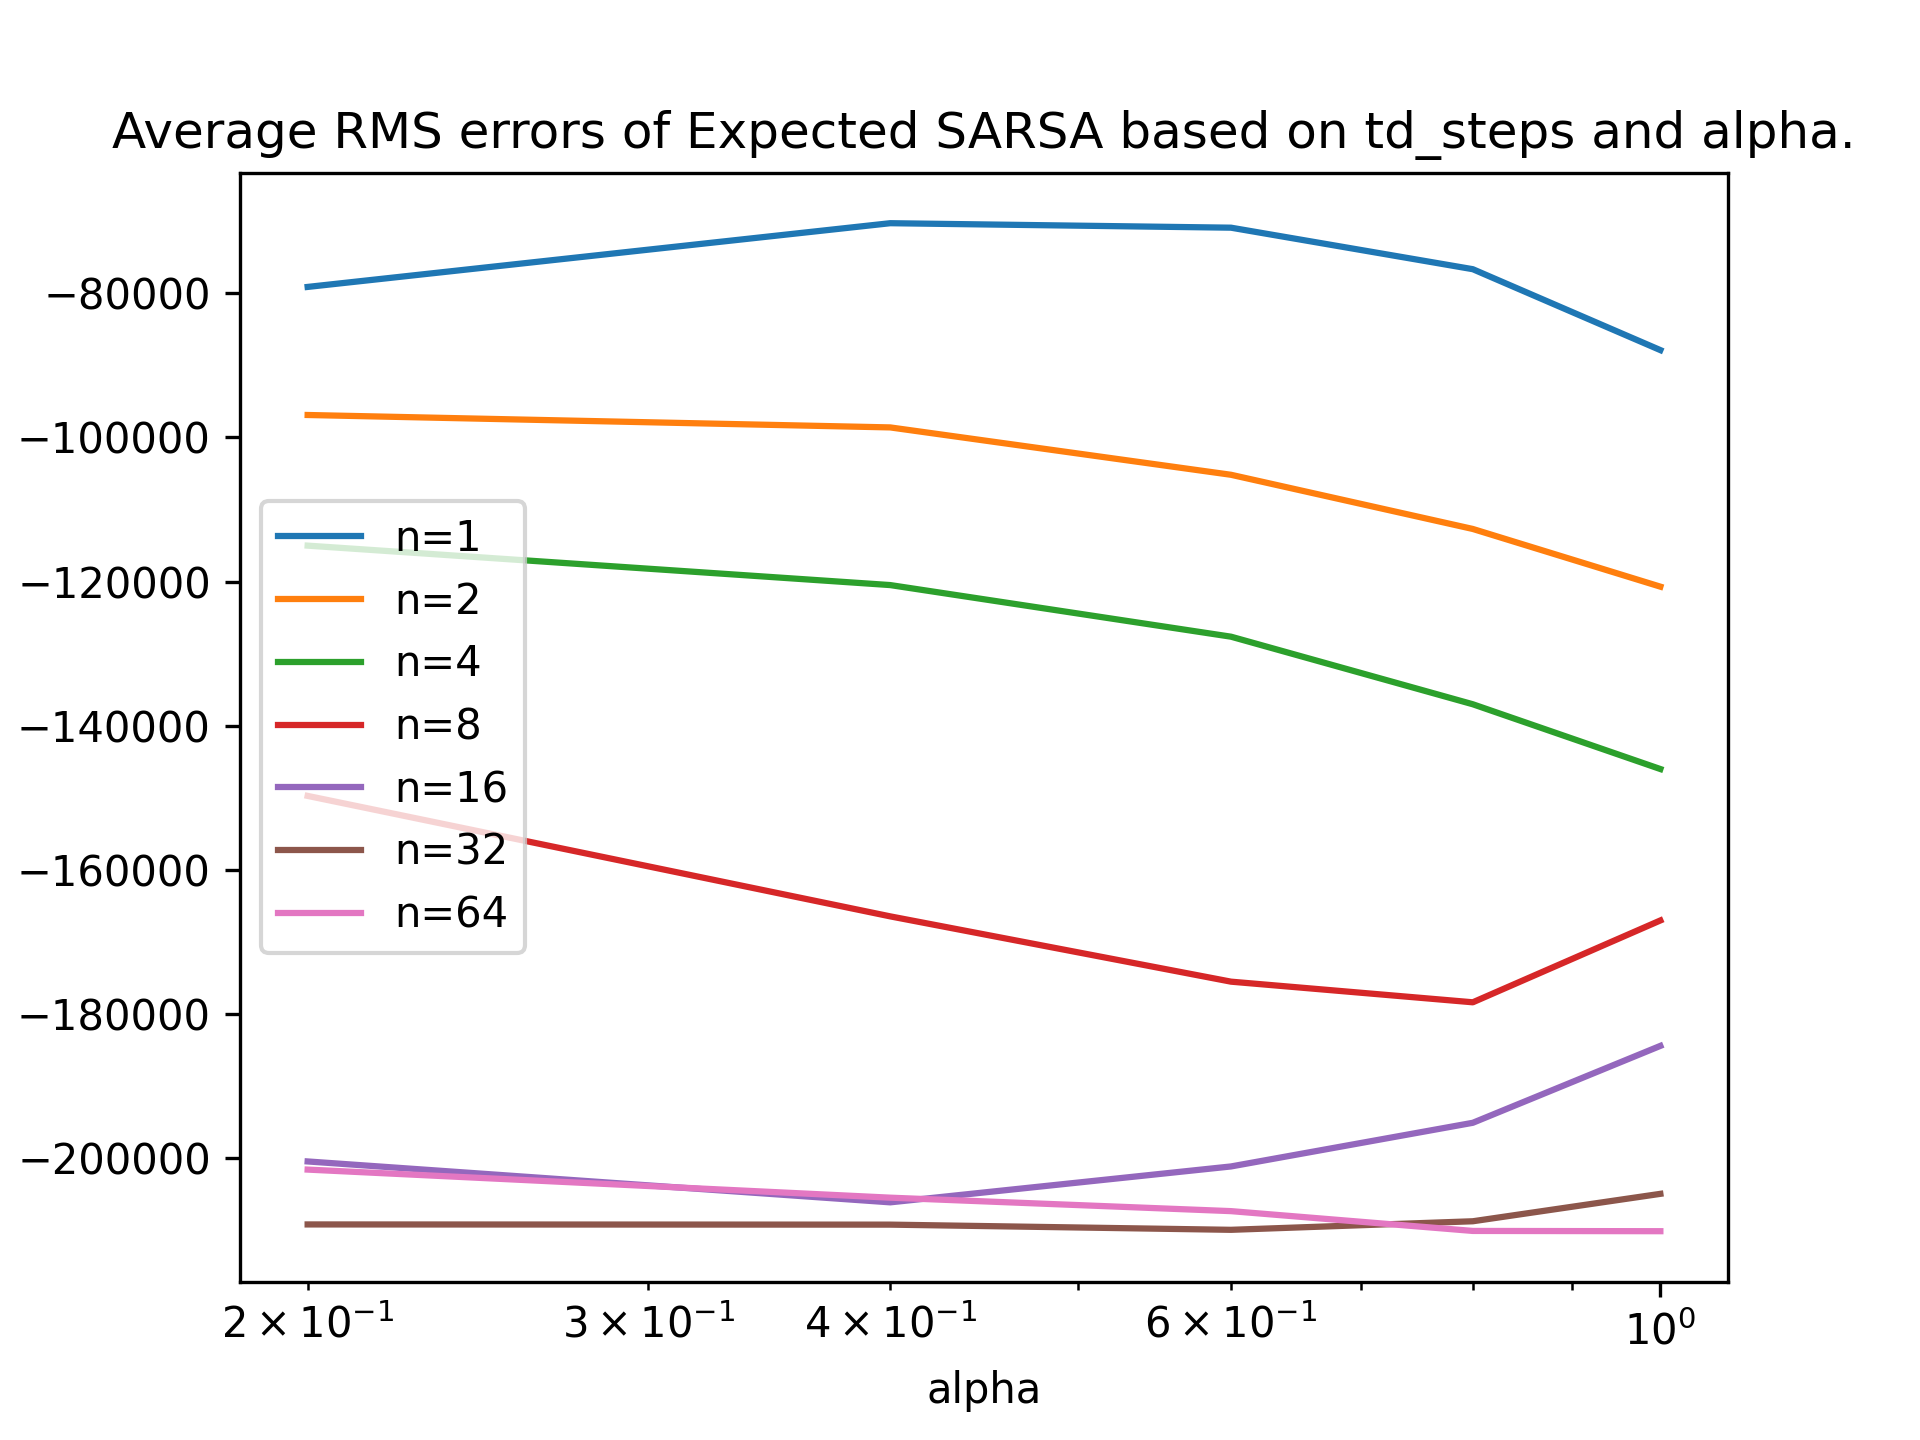
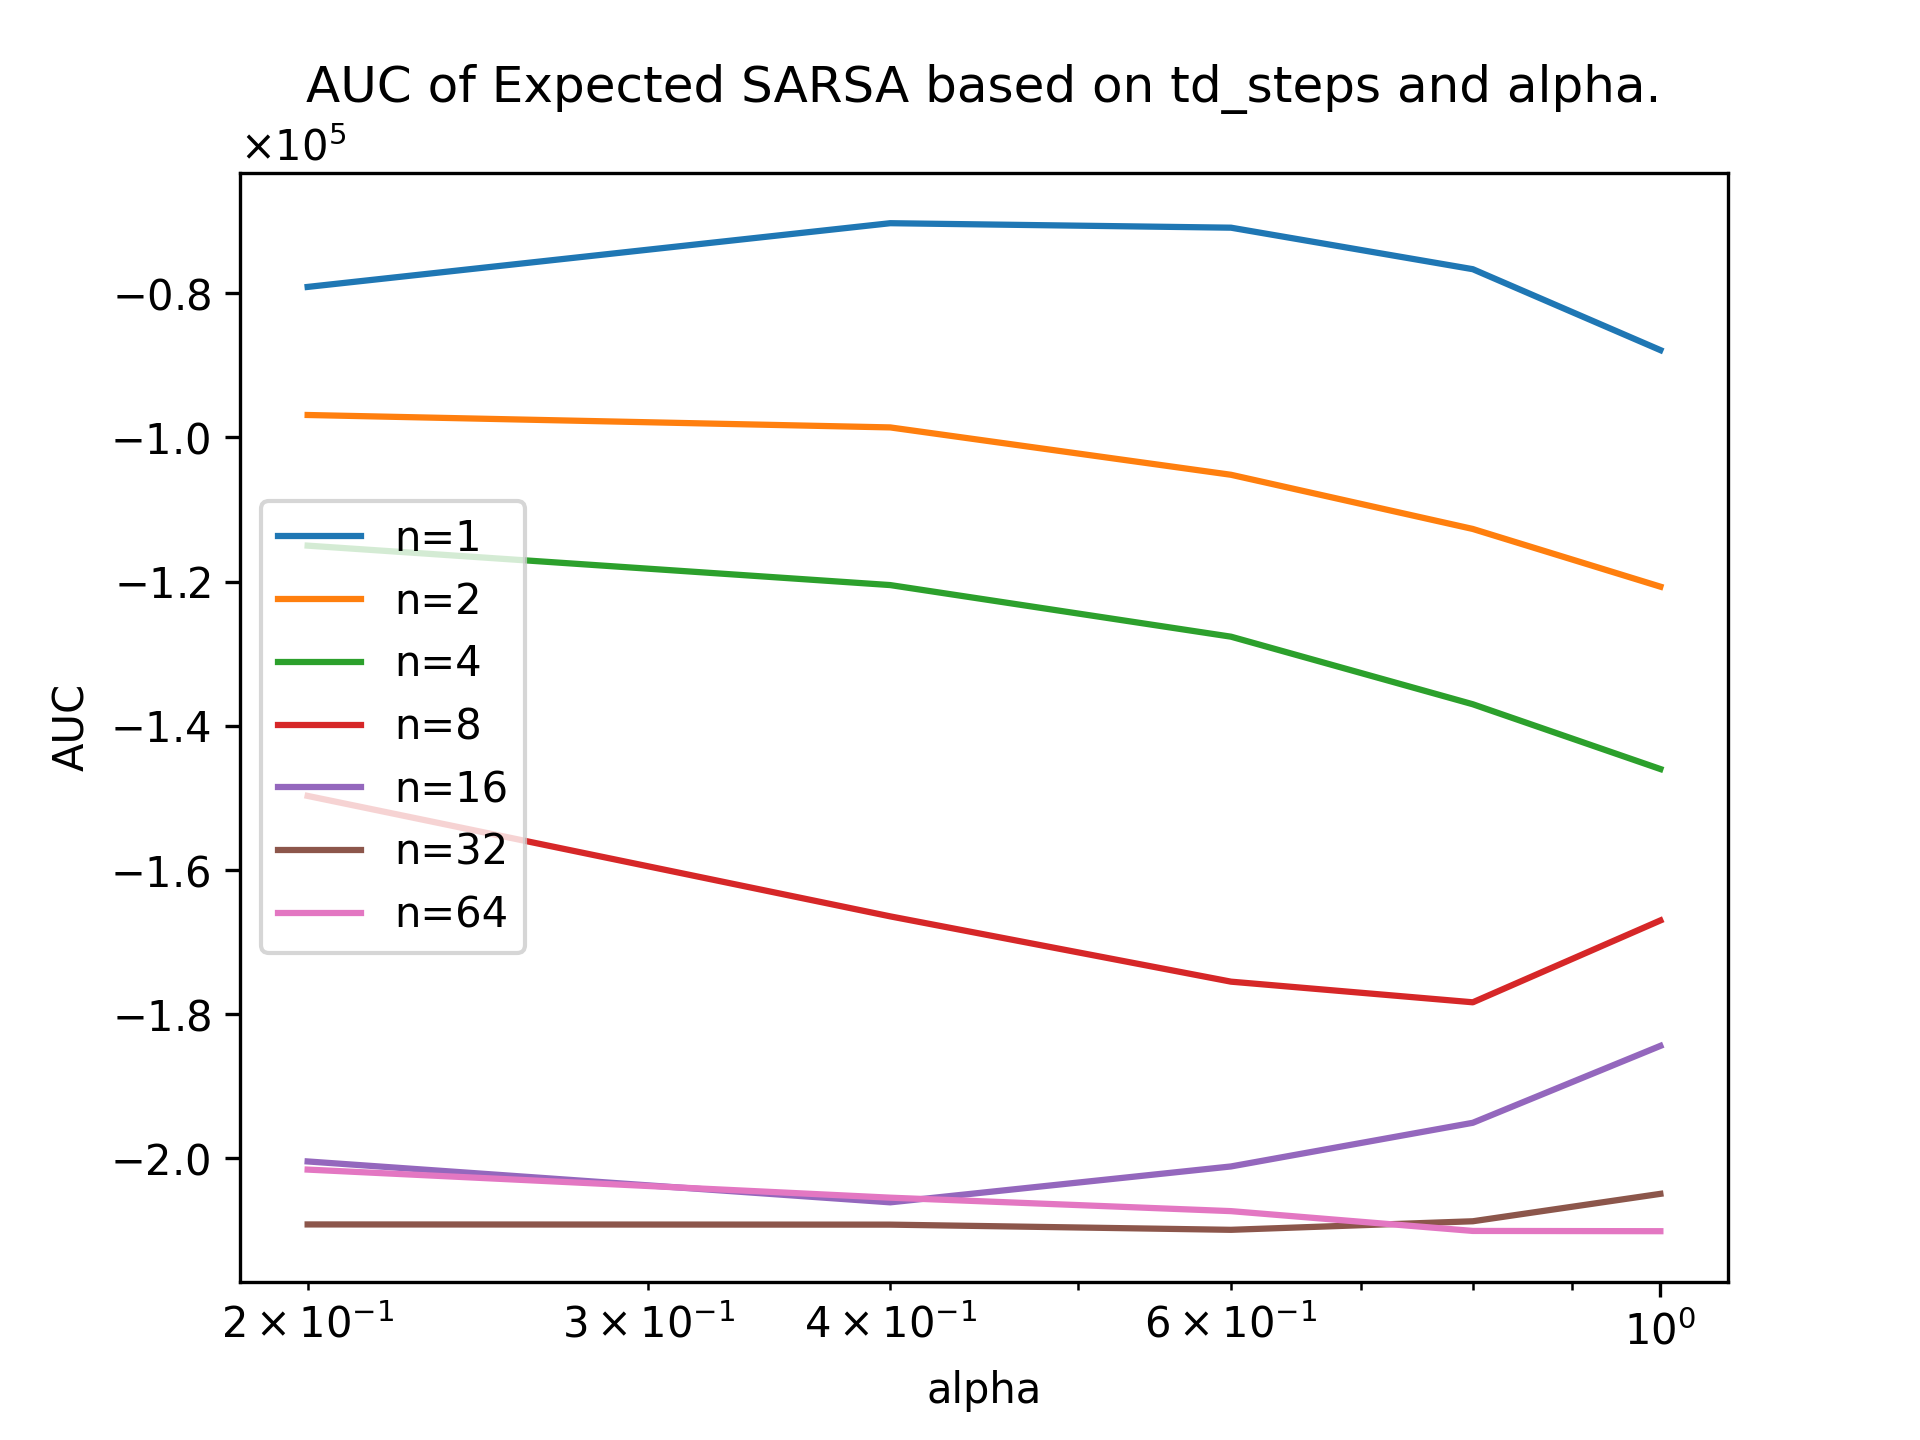
Plots final pls

diff --git a/ShortCutPlots.py b/ShortCutPlots.py
@@ -5,8 +5,7 @@ from Helpers import *
 def plot(
         smoothing_window: int,
         td_steps: list,
-        alphas: list,
-        optimal_val: int
+        alphas: list
 ):
     """
     Plots results, achieved from conducted experiment using results.npy file.
@@ -20,7 +19,6 @@ def plot(
     :param smoothing_window: size of the smoothing window
     :param td_steps: number of the time steps in the TD algs.
     :param alphas: The list of alphas we want to make experiment with (for every curve)
-    :param optimal_val: The optimal theoretical value for the environment
     :return: none
     """
 
@@ -38,10 +36,10 @@ def plot(
         best_alphas_ExpSARSA_dict = {}
 
         ### EXPERIMENT 1 ###
-        # Plots comparing average RMS errors based on td_steps(i) and alpha(j) for each agent
-        QLearn_plot = ComparisonPlot(title="Average RMS errors of Q-learning based on td_steps and alpha.")
-        SARSA_plot = ComparisonPlot(title="Average RMS errors of SARSA based on td_steps and alpha.")
-        ExpSARSA_plot = ComparisonPlot(title="Average RMS errors of Expected SARSA based on td_steps and alpha.")
+        # Plots comparing AUC based on td_steps(i) and alpha(j) for each agent
+        QLearn_plot = ComparisonPlot(title="AUC of Q-learning curves based on td_steps and alpha.")
+        SARSA_plot = ComparisonPlot(title="AUC SARSA curves based on td_steps and alpha.")
+        ExpSARSA_plot = ComparisonPlot(title="AUC of Expected SARSA based on td_steps and alpha.")
         for i in range(len(td_steps)):
             QLearn_auc = np.zeros(len(alphas))
             SARSA_auc = np.zeros(len(alphas))
@@ -121,11 +119,9 @@ if __name__ == "__main__":
     td_steps = [1, 2, 4, 8, 16, 32, 64]
     alphas = [0.2, 0.4, 0.6, 0.8, 1]
     smoothing_window = 31
-    optimal_val = -7
     # The experiment itself
     plot(
         td_steps=td_steps,
         smoothing_window=smoothing_window,
-        alphas=alphas,
-        optimal_val=optimal_val
+        alphas=alphas
     )

diff --git a/Helpers.py b/Helpers.py
@@ -1,5 +1,6 @@
 import numpy as np
 import matplotlib.pyplot as plt
+from matplotlib.ticker import ScalarFormatter
 from scipy.signal import savgol_filter
 
 
@@ -36,8 +37,11 @@ class ComparisonPlot:
     def __init__(self, title=None):
         self.fig, self.ax = plt.subplots()
         self.ax.set_xlabel('alpha')
-        self.ax.set_ylabel('Average RMS')
+        self.ax.set_ylabel('AUC')
         self.ax.set_xscale('log')
+        formatter = ScalarFormatter(useMathText=True)
+        formatter.set_powerlimits((0, 0))  # Force scientific notation for all values
+        self.ax.yaxis.set_major_formatter(formatter)
         if title is not None:
             self.ax.set_title(title)
 
